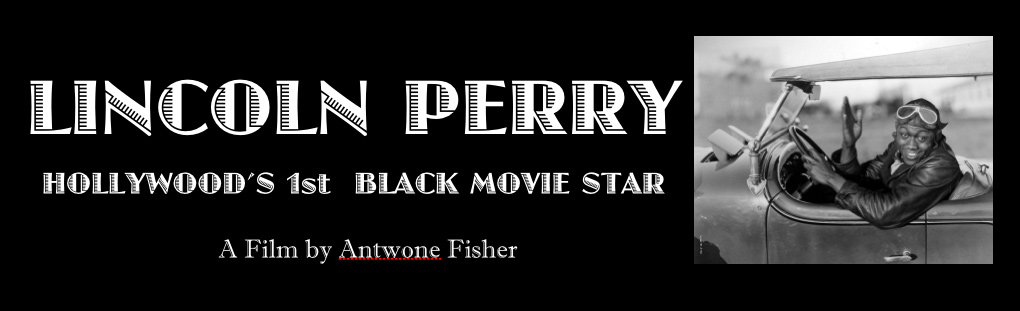
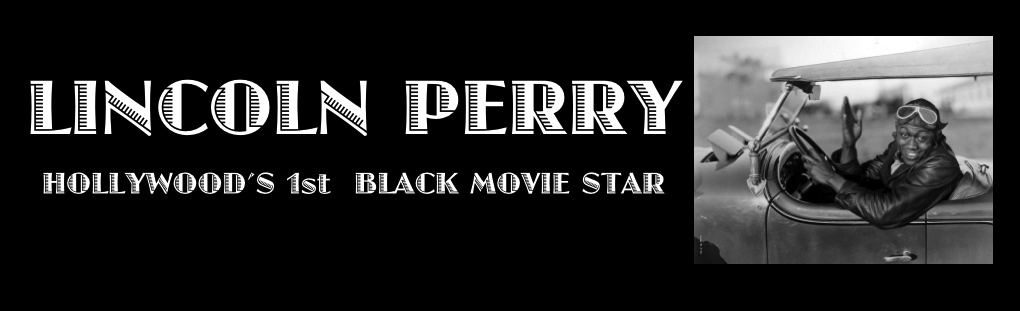
made changes to the UI

Changed region(s): [[0.2127, 0.7524, 0.5167, 0.8392]]

diff --git a/src/main/resources/static/app/css/fantank.min.css b/src/main/resources/static/app/css/fantank.min.css
@@ -2,4 +2,4 @@
  * BC Innovations, LLC - v1.0.0
  * Copyright 2017-2017 BC Innovations, LLC
  * Licensed under ISC
- */.fantank_blue_text{color:#33b5e5}.social-share{padding:1px;line-height:10px}a.fantank_blue_text{color:#33b5e5}a.fantank_blue_text:hover{color:#09c}.fantank_font_weight_500{font-weight:600}.fantank_blue_background{background-color:#33b5e5}.fantank_blue_background_transparent{background-color:rgba(51,181,229,.7)}.invest-progress{height:.25rem!important;background-color:#33b5e5}.btn-group .btn-fantank-main-outline.active{background-color:#33b5e5!important}.projects .nav-item,.projects .nav-link,.projects .nav-link.active{background-color:#000;color:#fff;text-align:center;overflow:visible!important}.projects .nav-link.active,.projects .nav-link:hover{color:#fff;border-top:0;border-left:0;border-right:0;border-bottom:3px solid #3990ce}@media screen and (max-width:767px){.projects .nav{display:block}}.invest .card .category{color:#868e96!important}.invest .card .category:hover{color:#fff!important}.invest .card .about{overflow:hidden;height:120px}.dashboard .nav-item,.dashboard .nav-link{background-color:#000;color:#fff;text-align:center;border-width:0;overflow:visible!important}.dashboard .nav-item.active,.dashboard .nav-item:hover{background-color:#000;color:#fff;border-top:0;border-left:0;border-right:0;border-bottom:3px solid #3990ce}@media screen and (max-width:767px){.dashboard .nav{display:block}}body{font-size:16px}.invest-in-art{background-color:#000;background-image:url(../images/homepage-dark.jpg);background-position:center;background-repeat:no-repeat;background-attachment:fixed;-webkit-background-size:cover;-moz-background-size:cover;-o-background-size:cover;background-size:cover}@media (min-width:768px){.invest-in-art{background-image:url(../images/homepage-dark.jpg)}}#invest-in-art{height:100%}.header .register{color:#33b5e5;text-transform:capitalize;font-weight:500;font-size:.9rem}.header .register:hover{color:#09c}.footer .legal-item a,.footer .menu-item a{color:#33b5e5}.footer .legal-item a:hover,.footer .menu-item a:hover{color:#09c}.borderless td,.borderless th{border-top:0;border-left:0;border-right:0;border-bottom:1px solid #313131;padding-right:0;padding-left:0}.btn-fantank-main{background-color:#33b5e5;text-transform:capitalize;color:#fff!important;font-size:.95rem!important;font-weight:500}.btn-fantank-main:hover{background-color:#4fc3f7}.btn-fantank-main-outline{background-color:tranparent;text-transform:capitalize;border:2px solid #fff!important;color:#fff;padding:8px 16px;text-align:center;display:inline-block;font-size:16px;margin:4px 2px;-webkit-transition-duration:.4s;transition-duration:.4s;cursor:pointer}.btn-fantank-main-outline:hover{background-color:#33b5e5!important;color:#fff}.invest-in-art-text-elegant{background-color:transparent}.invest-in-art-text-elegant-dark{background:rgba(33,33,33,.7)}.view:hover{cursor:pointer}.jumbotron-mainpages{height:315px;width:100%;position:absolute;top:0;left:0;background-position:center;background-repeat:no-repeat;background-attachment:fixed;-webkit-background-size:cover;-moz-background-size:cover;-o-background-size:cover;background-size:cover;overflow:hidden}.jumbotron-dashboardpages{height:200px;width:100%;position:absolute;top:0;left:0;-webkit-filter:blur(5px);filter:blur(5px);background-position:center;background-repeat:no-repeat;background-attachment:fixed;-webkit-background-size:cover;-moz-background-size:cover;-o-background-size:cover;background-size:cover;overflow:hidden}.infoi{width:100%;position:absolute;top:0;left:0;overflow:hidden;z-index:10}.start_location{position:relative;width:100%;height:315px}.dropdown-item,.navbar{background-color:#000;padding-top:5px;padding-bottom:5px;font-weight:500}.dropdown-item a:hover,.nav-item a:hover{color:#78bfe7!important}.dropdown-item:hover{background-color:#000!important}a.navbar-toggler{font-size:.95rem}a.navbar-toggler:hover{color:#78bfe7!important}.icon-button{background-color:#2e2e2e;border-radius:3.6rem;cursor:pointer;display:inline-block;font-size:2rem;height:3.6rem;line-height:3.6rem;margin:0 5px;position:relative;text-align:center;-webkit-user-select:none;-moz-user-select:none;-ms-user-select:none;user-select:none;width:3.6rem}.icon-button span{border-radius:0;display:block;height:0;left:50%;margin:0;position:absolute;top:50%;-webkit-transition:all .3s;-moz-transition:all .3s;-o-transition:all .3s;transition:all .3s;width:0}.icon-button:hover span{width:3.6rem;height:3.6rem;border-radius:3.6rem;margin:-1.8rem}.icon-button:hover .icon-twitter{color:#fff}.icon-button:hover .icon-facebook{color:#fff}.icon-button:hover .icon-google-plus{color:#fff}.icon-button:hover .icon-pinterest{color:#fff}.icon-button:hover .icon-linkedin{color:#fff}.icon-button:hover .icon-youtube{color:#fff}.icon-button:hover .icon-tumblr{color:#fff}.icon-button:hover .icon-instagram{color:#fff}.icon-button:hover .icon-flickr{color:#fff}.icon-button:hover .icon-stumbleupon{color:#fff}.icon-button:hover .icon-yahoo{color:#fff}.icon-button:hover .icon-blogger{color:#fff}.icon-button:hover .icon-soundcloud{color:#fff}.icon-button i{background:0 0;color:#fff;height:3.6rem;left:0;line-height:3.6rem;position:absolute;top:0;-webkit-transition:all .3s;-moz-transition:all .3s;-o-transition:all .3s;transition:all .3s;width:3.6rem;z-index:10}.icon-button .icon-twitter{color:#4099ff}.icon-button .icon-facebook{color:#3b5998}.icon-button .icon-google-plus{color:#db5a3c}.icon-button .icon-pinterest{color:#cb2027}.icon-button .icon-linkedin{color:#007bb6}.icon-button .icon-youtube{color:#b00}.icon-button .icon-tumblr{color:#32506d}.icon-button .icon-instagram{color:#bc2a8d}.icon-button .icon-flickr{color:#ff0084}.icon-button .icon-stumbleupon{color:#eb4823}.icon-button .icon-yahoo{color:#7b0099}.icon-button .icon-blogger{color:#fb8f3d}.icon-button .icon-soundcloud{color:#ff3a00}.twitter a,.twitter span{background-color:#4099ff}.facebook a,.facebook span{background-color:#3b5998}.google-plus a,.google-plus span{background-color:#db5a3c}.pinterest a,.pinterest span{background-color:#cb2027}.linkedin a,.linkedin span{background-color:#007bb6}.youtube a,.youtube span{background-color:#b00}.tumblr a,.tumblr span{background-color:#32506d}.instagram a,.instagram span{background-color:#bc2a8d}.flickr a,.flickr span{background-color:#ff0084}.stumbleupon a,.stumbleupon span{background-color:#eb4823}.yahoo a,.yahoo span{background-color:#7b0099}.blogger a,.blogger span{background-color:#fb8f3d}.soundcloud a,.soundcloud span{background-color:#ff3a00}@media screen and (max-width:319px){.show-login{display:none!important}}@media screen and (min-width:768px){.navbar{padding-top:15px;padding-bottom:15px;transition:background .5s ease-in,padding .5s ease-in-out}.top-nav-collapse{padding-top:5px;padding-bottom:5px;transition:background .5s ease-in,padding .5s ease-in-out}.text-center-less-than-md{text-align:left!important}}.form-control{color:#fff!important}.fantank_graydian_blue_color{background-color:#3c92cd}
+ */.fantank_blue_text{color:#33b5e5}.social-share{padding:1px 1px 8px 1px;line-height:10px}a.fantank_blue_text{color:#33b5e5}a.fantank_blue_text:hover{color:#09c}.fantank_font_weight_500{font-weight:600}.fantank_blue_background{background-color:#33b5e5}.fantank_blue_background_transparent{background-color:rgba(51,181,229,.7)}.invest-progress{height:.25rem!important;background-color:#33b5e5}.btn-group .btn-fantank-main-outline.active{background-color:#33b5e5!important}.projects .nav-item,.projects .nav-link,.projects .nav-link.active{background-color:#000;color:#fff;text-align:center;overflow:visible!important}.projects .nav-link.active,.projects .nav-link:hover{color:#fff;border-top:0;border-left:0;border-right:0;border-bottom:3px solid #3990ce}@media screen and (max-width:767px){.projects .nav{display:block}}.invest .card .category{color:#868e96!important}.invest .card .category:hover{color:#fff!important}.invest .card .about{overflow:hidden;height:120px}.dashboard .nav-item,.dashboard .nav-link{background-color:#000;color:#fff;text-align:center;border-width:0;overflow:visible!important}.dashboard .nav-item.active,.dashboard .nav-item:hover{background-color:#000;color:#fff;border-top:0;border-left:0;border-right:0;border-bottom:3px solid #3990ce}@media screen and (max-width:767px){.dashboard .nav{display:block}}body{font-size:16px}.invest-in-art{background-color:#000;background-image:url(../images/homepage-dark.jpg);background-position:center;background-repeat:no-repeat;-webkit-background-size:cover;-moz-background-size:cover;-o-background-size:cover;background-size:cover}@media (min-width:768px){.invest-in-art{background-image:url(../images/homepage-dark.jpg);background-attachment:fixed}}#invest-in-art{height:100%}.blank-line{margin-top:0;margin-bottom:1rem;display:block;-webkit-margin-before:1em;-webkit-margin-after:1em;-webkit-margin-start:0;-webkit-margin-end:0;height:20px}.header .register{color:#33b5e5;text-transform:capitalize;font-weight:500;font-size:.9rem}.header .register:hover{color:#09c}.footer .legal-item a,.footer .menu-item a{color:#33b5e5}.footer .legal-item a:hover,.footer .menu-item a:hover{color:#09c}.borderless td,.borderless th{border-top:0;border-left:0;border-right:0;border-bottom:1px solid #313131;padding-right:0;padding-left:0}.btn-fantank-main{background-color:#33b5e5;text-transform:capitalize;color:#fff!important;font-size:.95rem!important;font-weight:500}.btn-fantank-main:hover{background-color:#4fc3f7}.btn-fantank-main-outline{background-color:tranparent;text-transform:capitalize;border:2px solid #fff!important;color:#fff;padding:8px 16px;text-align:center;display:inline-block;font-size:16px;margin:4px 2px;-webkit-transition-duration:.4s;transition-duration:.4s;cursor:pointer}.btn-fantank-main-outline:hover{background-color:#33b5e5!important;color:#fff}.invest-in-art-text-elegant{background-color:transparent}.invest-in-art-text-elegant-dark{background:rgba(33,33,33,.7)}.view:hover{cursor:pointer}.jumbotron-mainpages{height:315px;width:100%;position:absolute;top:0;left:0;background-position:center;background-repeat:no-repeat;background-attachment:fixed;-webkit-background-size:cover;-moz-background-size:cover;-o-background-size:cover;background-size:cover;overflow:hidden}.jumbotron-dashboardpages{height:200px;width:100%;position:absolute;top:0;left:0;-webkit-filter:blur(5px);filter:blur(5px);background-position:center;background-repeat:no-repeat;background-attachment:fixed;-webkit-background-size:cover;-moz-background-size:cover;-o-background-size:cover;background-size:cover;overflow:hidden}.infoi{width:100%;position:absolute;top:0;left:0;overflow:hidden;z-index:10}.start_location{position:relative;width:100%;height:315px}.dropdown-item,.navbar{background-color:#000;padding-top:5px;padding-bottom:5px;font-weight:500}.dropdown-item a:hover,.nav-item a:hover{color:#78bfe7!important}.dropdown-item:hover{background-color:#000!important}a.navbar-toggler{font-size:.95rem}a.navbar-toggler:hover{color:#78bfe7!important}.icon-button{background-color:#2e2e2e;border-radius:3.6rem;cursor:pointer;display:inline-block;font-size:2rem;height:3.6rem;line-height:3.6rem;margin:0 5px;position:relative;text-align:center;-webkit-user-select:none;-moz-user-select:none;-ms-user-select:none;user-select:none;width:3.6rem}.icon-button span{border-radius:0;display:block;height:0;left:50%;margin:0;position:absolute;top:50%;-webkit-transition:all .3s;-moz-transition:all .3s;-o-transition:all .3s;transition:all .3s;width:0}.icon-button:hover span{width:3.6rem;height:3.6rem;border-radius:3.6rem;margin:-1.8rem}.icon-button:hover .icon-twitter{color:#fff}.icon-button:hover .icon-facebook{color:#fff}.icon-button:hover .icon-google-plus{color:#fff}.icon-button:hover .icon-pinterest{color:#fff}.icon-button:hover .icon-linkedin{color:#fff}.icon-button:hover .icon-youtube{color:#fff}.icon-button:hover .icon-tumblr{color:#fff}.icon-button:hover .icon-instagram{color:#fff}.icon-button:hover .icon-flickr{color:#fff}.icon-button:hover .icon-stumbleupon{color:#fff}.icon-button:hover .icon-yahoo{color:#fff}.icon-button:hover .icon-blogger{color:#fff}.icon-button:hover .icon-soundcloud{color:#fff}.icon-button i{background:0 0;color:#fff;height:3.6rem;left:0;line-height:3.6rem;position:absolute;top:0;-webkit-transition:all .3s;-moz-transition:all .3s;-o-transition:all .3s;transition:all .3s;width:3.6rem;z-index:10}.icon-button .icon-twitter{color:#4099ff}.icon-button .icon-facebook{color:#3b5998}.icon-button .icon-google-plus{color:#db5a3c}.icon-button .icon-pinterest{color:#cb2027}.icon-button .icon-linkedin{color:#007bb6}.icon-button .icon-youtube{color:#b00}.icon-button .icon-tumblr{color:#32506d}.icon-button .icon-instagram{color:#bc2a8d}.icon-button .icon-flickr{color:#ff0084}.icon-button .icon-stumbleupon{color:#eb4823}.icon-button .icon-yahoo{color:#7b0099}.icon-button .icon-blogger{color:#fb8f3d}.icon-button .icon-soundcloud{color:#ff3a00}.twitter a,.twitter span{background-color:#4099ff}.facebook a,.facebook span{background-color:#3b5998}.google-plus a,.google-plus span{background-color:#db5a3c}.pinterest a,.pinterest span{background-color:#cb2027}.linkedin a,.linkedin span{background-color:#007bb6}.youtube a,.youtube span{background-color:#b00}.tumblr a,.tumblr span{background-color:#32506d}.instagram a,.instagram span{background-color:#bc2a8d}.flickr a,.flickr span{background-color:#ff0084}.stumbleupon a,.stumbleupon span{background-color:#eb4823}.yahoo a,.yahoo span{background-color:#7b0099}.blogger a,.blogger span{background-color:#fb8f3d}.soundcloud a,.soundcloud span{background-color:#ff3a00}@media screen and (max-width:319px){.show-login{display:none!important}}@media screen and (min-width:768px){.navbar{padding-top:15px;padding-bottom:15px;transition:background .5s ease-in,padding .5s ease-in-out}.top-nav-collapse{padding-top:5px;padding-bottom:5px;transition:background .5s ease-in,padding .5s ease-in-out}.text-center-less-than-md{text-align:left!important}}.form-control{color:#fff!important}.fantank_graydian_blue_color{background-color:#3c92cd}

diff --git a/src/main/resources/templates/projects/perry.html b/src/main/resources/templates/projects/perry.html
@@ -209,7 +209,7 @@
               </div>
               <div class="col-12 text-center">
                 <h5 class="card-title">Lincoln Perry</h5>
-                <h6 class="card-title">An Antwone Fisher Movie</h6>
+                <h6 class="card-title">The Movie</h6>
               </div>
             </div>
             <div class="row white black-text px-2 pt-1 mx-0 my-0">
@@ -336,16 +336,16 @@
                     <img class="d-flex img-circle img-fluid" src="/projects/perry/antwone-fisher2.jpg"/>
                   </div>
                   <div class="col-12 col-md-9">
-                    <h2>Antwone Fisher</h2>
+                    <h2>Antwone Fisher [Prospect]</h2>
                     <h3>Director</h3>
                     <p>Antwone Fisher is an American screenwriter, Director, poet, lecturer, and bestselling author. Antwone is the writer, co-producer and subject of the Fox Searchlight Pictures classic film, ANTWONE FISHER. His autobiographical book Finding
                       Fish: A memoir is a New York Times and national bestseller.</p>
 
                     <p>Antwone has worked in Hollywood for 25 years as a screenwriter and producer, with an impressive fifteen writing projects or assignments with the major studios. Among those projects is the feature classic, ANTWONE FISHER, directed by
                       and staring Oscar-winning actor Denzel Washington, written by Antwone based on his own life. Antwone received numerous nominations and awards including the renowned Humanitas Prize, Screenwriter of the year award from the National
-                      Association Of Theater Owners, and was listed in Variety’s Fifty People to Watch. ”He was also listed among Fade In Magazine’s “100 People in Hollywood you need to know” in 2005.</p>
+                      Association Of Theater Owners, and was listed in Variety’s Fifty People to Watch. "He was also listed among Fade In Magazine’s "100 People in Hollywood you need to know" in 2005.</p>
 
-                    <p>Antwone’s present screenwriting project is with Columbia Pictures and is presently titled, "the Untitled Antwone Fisher Project”. Antwone made his film-directing debut with the award-winning short film, “My Summer Friend.” He produced
+                    <p>Antwone’s present screenwriting project is with Columbia Pictures and is presently titled, "the Untitled Antwone Fisher Project". Antwone made his film-directing debut with the award-winning short film, "My Summer Friend." He produced
                       wrote and directed the 2013 documentary, This Life of Mine The Incredible Life of Leon Garr. </p>
 
                   </div>
@@ -382,6 +382,60 @@
                       coach, Don Meyer, released in 2016 and MEANEST MAN IN TEXAS based on the book, that has completed principal photography and will be released in 2018. This film has been nominated for 26 Film festival Awards and won 16 to date. Wilson's
                       films have also won awards at the Berlin Film Festival, The America Cinema Foundation, The Chicago Film Critics Association, Emden International Film Festival, Nederlands Film Festival, Westchester New York International Film Festival,
                       Stony Brook Film Festival and The Santa Clarita International Film Festival. He is a member of the Academy of Television Arts &amp; Sciences and a charter member of the National Radio Hall of Fame of Texas.</p>
+
+                  </div>
+                </div>
+
+                <hr/>
+
+                <div class="row">
+                  <div class="col-12 col-md-3 d-flex align-items-center">
+                    <img class="d-flex img-circle img-fluid" src="/projects/perry/casey-bond.jpg"/>
+                  </div>
+                  <div class="col-12 col-md-9">
+                    <h2>Casey Bond</h2>
+                    <h3>Corporate Secretary and Producer</h3>
+                    <p>Casey Bond was drafted by the San Francisco Giants in 2007 as a Center Fielder after his senior year at Lipscomb University. He played professionally for two years before moving on to his next goal in life, a successful career in the entertainment industry.  This passion led to acting classes during his offseason with the Giants and an eventual move to Hollywood.  Within six months of arriving in Hollywood he quickly shot to the top of the entertainment world by landing the role of Chad Bradford in the star-studded film Moneyball which also starred Brad Pitt, Jonah Hill, Philip-Seymour Hoffman, and Robin Wright.  He has acted in many commercials, TV shows (such as ABC’s hit series Nashville and Gene Simmons’ Family Jewels), print ads, and short films along with being a spokesperson for multiple companies.  
+                    
+                    Other current movie projects that have been filmed are Undrafted which was released early in 2017. The Meanest Man In Texas, which will be released 2018 after winning many film festival awards, including best picture.  My Many Sons was released in September 2016.  Casey was in the main cast for the Hank Williams biopic titled I Saw The Light, alongside Tom Hiddleston, as Hank’s good friend and legendary Drifting Cowboy, Jerry Rivers.
+                     
+                    As a producer Casey is partnered in Higher Purpose Entertainment with Brad Wilson.  The company has filmed b, based on the true life story of legendary basketball coach Don Meyer, in which Casey is the second lead as Jerry Meyer and was released September 2016. The Meanest Man In Texas has completed filming and will be released in 2018.  Also on the slate for Higher Purpose is Palomino, based on boxing great Carlos Palomino. </p>
+
+                  </div>
+                </div>
+
+                <hr/>
+
+                <div class="row">
+                  <div class="col-12 col-md-3 d-flex align-items-center">
+                    <img class="d-flex img-circle img-fluid" src="https://via.placeholder.com/175x175"/>
+                  </div>
+                  <div class="col-12 col-md-9">
+                    <h2>Bill Robertson</h2>
+                    <h3>Writer</h3>
+                    <p>Bill has been writing comedy/drama for the theater, film, television, radio, and print for the past twenty years. He most recently penned a musical comedy with Tom Sage entitled "Paradise" which was produced at a theater in Santa Monica, and is now being courted by regional theaters around the country, as well as Off-Broadway. "Paradise" is also in development as an independent feature film. 
+
+                    Bill was the Head of Development for AMI, Mark Harris’s, (Crash, Gods &amp; Monsters) production company optioning material, and driving script development. While working for AMI he was commissioned to write the screen adaptation of the NY Times Best-Seller "29 Gifts."  Tom Sage &amp; Bill have optioned several feature length scripts, and have been hired as Script Doctors/Consultants with different independent film production companies in Los Angeles and New York. 
+
+                    Bill was a Writer on the NY PBS kids show "Ditty Doodle Works", a contributing writer for radio personality Rick Dees, and an Associate Editor for National Lampoon Magazine. He is the founder of the off-beat sketch comedy troupe "Heavily Medicated Fairy Tales" which performed Off-Off Broadway in NY and Boston for several years. </p>
+
+                  </div>
+                </div>
+
+                <hr/>
+
+                <div class="row">
+                  <div class="col-12 col-md-3 d-flex align-items-center">
+                    <img class="d-flex img-circle img-fluid" src="https://via.placeholder.com/175x175"/>
+                  </div>
+                  <div class="col-12 col-md-9">
+                    <h2>Tom Sage</h2>
+                    <h3>Writer</h3>
+                    <p>Tom has written for theater, television, film, radio, and print. Tom has collaborated with Bill Robertson and song-writer Cliff Wagner, to bring the musical divine comedy, "Paradise" to the Ruskin Theater in Santa Monica, CA for its world premiere. His last play, "A Good Year for the Roses" which he co-wrote with Bill Robertson, was produced in Hollywood and is being brought back to the stage in 2014. Tom has optioned several screenplays with Los Angeles/NY production companies, and was a script consultant on the award winning short film, "Night Deposit."
+
+                    Tom was a Staff Writer for the PBS kids show "Ditty Doodle Works," contributing writer for Rick Dee’s nationally syndicated radio show, and an Associate Editor for National Lampoon Magazine. He was a Writer/Performer of a live sketch comedy show entitled Heavily Medicated Fairy Tales, appearing in New York and Boston. He was also a Writer and Senior Segment Producer on the hit TV show "Blind Date."
+
+                    Tom has co-written and appeared in several comedic short films. Two of the films, "Cakehead" and "Dr. Berenson" were screened in several New England film festivals. He is presently co-writing another play with Bill Robertson, the dark comedy, "Wake" and a musical collaboration for the stage with Cliff Wagner, "The Brighton House of Detention."</p>
 
                   </div>
                 </div>

diff --git a/src/main/resources/static/dev/less/fantank.less b/src/main/resources/static/dev/less/fantank.less
@@ -36,7 +36,7 @@
 }
 
 .social-share {
-  padding: 1px;
+  padding: 1px 1px 8px 1px;
   line-height: 10px;
 }
 
@@ -137,7 +137,6 @@ body {
   background-image: url('../images/homepage-dark.jpg') ; //url("../images/crowd-hands-dark-quality-small-screen-scale.png");
   background-position: center;
   background-repeat: no-repeat;
-  background-attachment: fixed;
   -webkit-background-size: cover;
   -moz-background-size: cover;
   -o-background-size: cover;
@@ -145,11 +144,25 @@ body {
 
   @media (min-width: 768px) {
     background-image: url('../images/homepage-dark.jpg'); //url("../images/crowd-hands-dark-quality.jpg");
+    background-attachment: fixed;
   }
 
 }
+
+
 #invest-in-art {
   height: 100%;
+}
+
+.blank-line {
+  margin-top: 0;
+  margin-bottom: 1rem;
+  display: block;
+  -webkit-margin-before: 1em;
+  -webkit-margin-after: 1em;
+  -webkit-margin-start: 0px;
+  -webkit-margin-end: 0px;
+  height: 20px;
 }
 
 .header .register {

diff --git a/src/main/resources/static/app/css/fantank.css b/src/main/resources/static/app/css/fantank.css
@@ -11,7 +11,7 @@
   color: #33b5e5;
 }
 .social-share {
-  padding: 1px;
+  padding: 1px 1px 8px 1px;
   line-height: 10px;
 }
 a.fantank_blue_text {
@@ -97,7 +97,6 @@ body {
   background-image: url('../images/homepage-dark.jpg');
   background-position: center;
   background-repeat: no-repeat;
-  background-attachment: fixed;
   -webkit-background-size: cover;
   -moz-background-size: cover;
   -o-background-size: cover;
@@ -106,10 +105,21 @@ body {
 @media (min-width: 768px) {
   .invest-in-art {
     background-image: url('../images/homepage-dark.jpg');
+    background-attachment: fixed;
   }
 }
 #invest-in-art {
   height: 100%;
+}
+.blank-line {
+  margin-top: 0;
+  margin-bottom: 1rem;
+  display: block;
+  -webkit-margin-before: 1em;
+  -webkit-margin-after: 1em;
+  -webkit-margin-start: 0px;
+  -webkit-margin-end: 0px;
+  height: 20px;
 }
 .header .register {
   color: #33b5e5;

diff --git a/src/main/resources/templates/invest0.html b/src/main/resources/templates/invest0.html
@@ -140,7 +140,7 @@
               </div>
               <div class="row">
                 <div class="col-12">
-                  <p class="about">An Antwone Fisher film lorem ipsum dolor sit amet, consectetur adipiscing elit. Mauris nec odio nulla. Nulla ut scelerisque tortor. Pellentesque eu cursus mauris, nec facilisis est. Pellentesque non quam at leo pulvinar bibendum.
+                  <p class="about">Film lorem ipsum dolor sit amet, consectetur adipiscing elit. Mauris nec odio nulla. Nulla ut scelerisque tortor. Pellentesque eu cursus mauris, nec facilisis est. Pellentesque non quam at leo pulvinar bibendum.
                   </p>
                 </div>
                 <div class="col-12">

diff --git a/src/main/resources/templates/index.html b/src/main/resources/templates/index.html
@@ -136,9 +136,9 @@
               <!--Card content-->
               <div class="card-body text-center">
                 <!--Title-->
-                <h4 class="card-title">Lincoln Perry</h4>
+                <h4 class="card-title">Lincoln Perry The Movie</h4>
                 <!--Text-->
-                <p class="card-text">A film by Antwone Fisher</p>
+                <div class="blank-line"></div>
                 <a href="/invest/perry" class="btn btn-fantank-main btn-lg">Learn More</a>
 
               </div>
